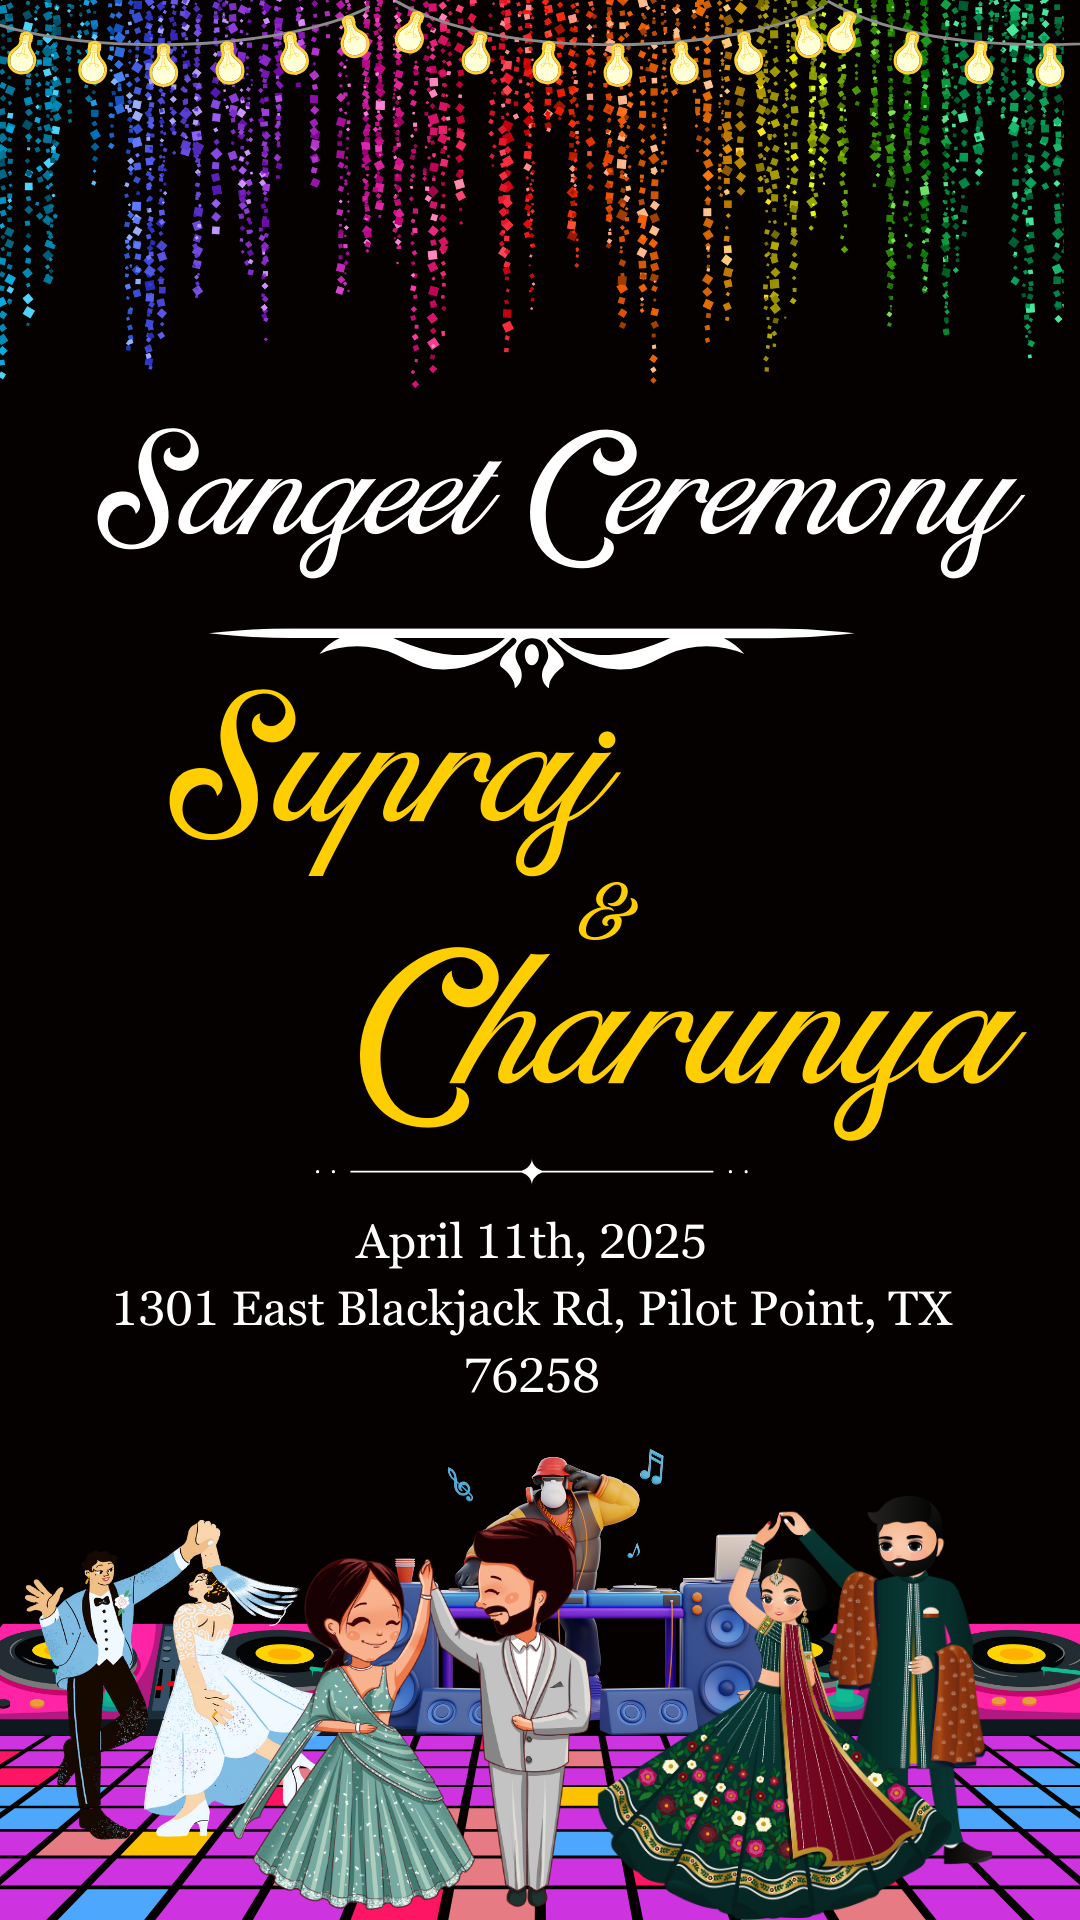
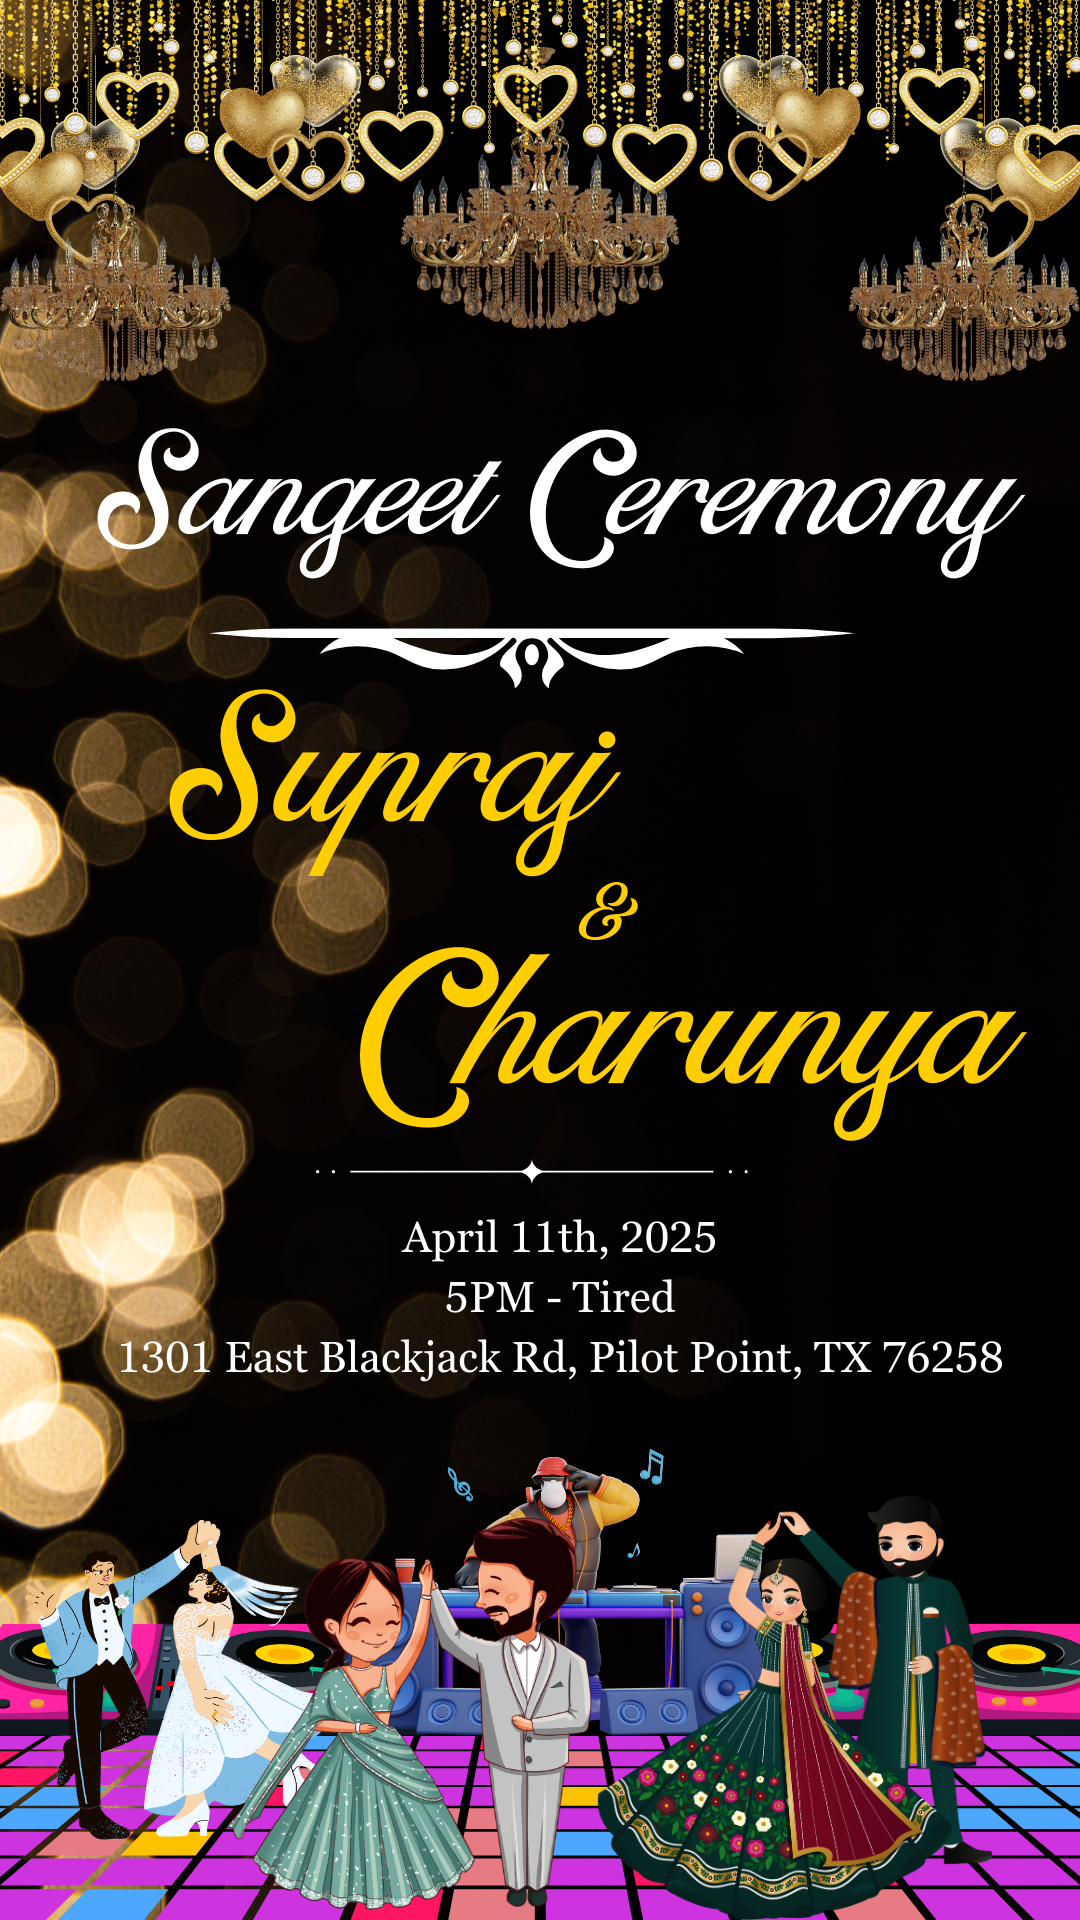
added dinner time in sangeet page

diff --git a/templates/index.html b/templates/index.html
@@ -59,7 +59,11 @@
                 
                 <!-- Custom RSVP message only for Sangeet page -->
                 <p class="rsvp-message">
-                    If you could make it to our big day, please fill in your details below so we can reserve a great seat for you. <span class="emoji">😀</span>
+                    {% if custom_message and custom_message.custom_rsvp_message %}
+                        {{ custom_message.custom_rsvp_message }}
+                    {% else %}
+                        If you could make it to our big day, please fill in your details below so we can reserve a great seat for you. <span class="emoji">😀</span>
+                    {% endif %}
                 </p>
             {% else %}
                 <p class="intro-text">Exciting News – A Special Celebration Awaits!</p>
@@ -100,6 +104,13 @@
                         <p class="detail-info">Followed by Launch - 11:30 AM</p>
                     {% endif %}
                 </div>
+                
+                {% if custom_message and custom_message.custom_dinner_time %}
+                <div class="detail-section">
+                    <h3 class="detail-label">Dinner</h3>
+                    <p class="detail-info">7:00 PM</p>
+                </div>
+                {% endif %}
                 
                 <div class="detail-section">
                     <h3 class="detail-label">Venue</h3>

diff --git a/app.py b/app.py
@@ -38,7 +38,9 @@ def sangeet_page():
         'heading': 'Dance to the beat',
         'description': "You've asked, so here it is-rhythm of the life.\n\nBefore we tie the knot, let's celebrate with a night full of music, dance, and unforgettable moments! Join us for an evening of joy, laughter, and dazzling performances in Pilot Point, Texas!!",
         'custom_date': "April 11th, 2025",
-        'custom_time': "From 5 PM to 10 PM"
+        'custom_time': "From 5 PM to 10 PM",
+        'custom_dinner_time': "Dinner 7:00 PM",
+        'custom_rsvp_message': "If you can make it to our Sangeet, please fill in your details below so we can reserve a spot for you on the dance floor. 🎶💃🕺"
     }
     
     # Pass the custom spreadsheet ID for Sangeet RSVPs
